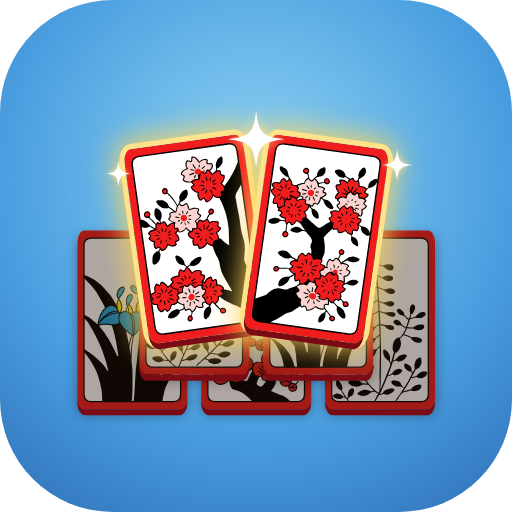
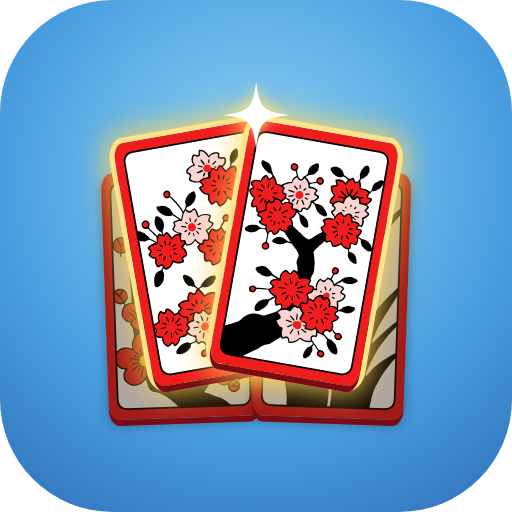
앱 아이콘을 단순한 2층 구성(시안 D)으로
- 빛나는 벚꽃 짝 두 장 뒤로 아래층 패 두 장이 살짝 보이는 2층, 하늘색 배경 (피처 그래픽과 같은 색)
- 작게 보여도 또렷하도록 요소를 줄임. 산호색 D2, 더 단순한 B2 등은 StoreAssets/icon-options

diff --git a/StoreAssets/src/icons.js b/StoreAssets/src/icons.js
@@ -34,6 +34,27 @@ const variants = {
     s += `<div style="position:absolute;left:256px;top:90px;width:0;height:0;z-index:8">${''}</div>`;
     s += spark(258, 92, 1.3) + spark(420, 140, 0.7) + spark(90, 150, 0.6) + spark(430, 420, 0.5);
     return s; } },
+  // B2: B를 더 단순하게 — 뒤 패 없이 벚꽃 짝 두 장과 큰 반짝이 하나 (작게 보여도 또렷하게)
+  B2: { bg: 'radial-gradient(circle at 50% 45%, #FFD9A8 0%, #FF9F6B 55%, #E8664A 100%)', body: () => {
+    let s = c('March_Kasu_1', 200, 268, 190, -14, 'glow', 3) + c('March_Kasu_2', 318, 276, 190, 12, 'glow', 4);
+    s += spark(262, 96, 1.4);
+    return s; } },
+  // D: 2층 — 짝 두 장 뒤로 아래층 패가 살짝만 보인다 (하늘색)
+  D: { bg: 'radial-gradient(circle at 50% 35%, #8FD3F4 0%, #4A9FE0 60%, #2F6FB8 100%)', body: () => {
+    // 아래층: 짝 두 장 바로 뒤에 같은 크기로 깔려 테두리와 아랫부분만 살짝 보인다
+    let s = c('February_Kasu_1', 168, 300, 176, -2, 'dim', 1) + c('May_Kasu_1', 344, 300, 176, 2, 'dim', 1);
+    // 위층: 빛나는 벚꽃 짝
+    s += c('March_Kasu_1', 200, 252, 176, -10, 'glow', 3) + c('March_Kasu_2', 312, 252, 176, 10, 'glow', 4);
+    s += spark(256, 92, 1.3);
+    return s; } },
+  // D2: D와 같고 산호색 배경
+  D2: { bg: 'radial-gradient(circle at 50% 45%, #FFD9A8 0%, #FF9F6B 55%, #E8664A 100%)', body: () => {
+    // 아래층: 짝 두 장 바로 뒤에 같은 크기로 깔려 테두리와 아랫부분만 살짝 보인다
+    let s = c('February_Kasu_1', 168, 300, 176, -2, 'dim', 1) + c('May_Kasu_1', 344, 300, 176, 2, 'dim', 1);
+    // 위층: 빛나는 벚꽃 짝
+    s += c('March_Kasu_1', 200, 252, 176, -10, 'glow', 3) + c('March_Kasu_2', 312, 252, 176, 10, 'glow', 4);
+    s += spark(256, 92, 1.3);
+    return s; } },
   // C: 3층으로 비스듬히 쌓인 더미(위로 갈수록 밝게), 맨 위 벚꽃 한 쌍. 크림색 배경
   C: { bg: 'radial-gradient(circle at 50% 30%, #FFF8E6 0%, #F6E2B8 60%, #E2BF84 100%)', body: () => {
     let s = '', w = 116;

diff --git a/StoreAssets/src/make.js b/StoreAssets/src/make.js
@@ -2,7 +2,7 @@
 // (하늘색 배경, 층층이 쌓인 패 위에서 벚꽃 짝 두 장이 빛난다. 광 패·초록 담요는 쓰지 않는다.)
 // 사용: node StoreAssets/src/make.js <화투 SVG 폴더>   (Tools/Cards/README.md 의 위키미디어 SVG)
 // 결과: StoreAssets/feature-ko.png, StoreAssets/feature-en.png
-// 앱 아이콘은 icons.js (시안 A를 icon-512.png 와 Assets/Icon/AppIcon.png 로 복사해 쓴다)
+// 앱 아이콘은 icons.js (시안 D를 icon-512.png 와 Assets/Icon/AppIcon.png 로 복사해 쓴다)
 const fs = require('fs'), path = require('path'), { execFileSync } = require('child_process');
 const SVG = process.argv[2];
 if (!SVG) { console.error('usage: node make.js <svg dir>'); process.exit(1); }

diff --git a/Assets/Editor/ProjectSetup.cs b/Assets/Editor/ProjectSetup.cs
@@ -70,7 +70,7 @@ public static class ProjectSetup
 
     /// <summary>
     /// 안드로이드 런처 아이콘: 적응형(배경 + 전경, 기기마다 원·둥근 사각형 등으로 잘린다), 원형, 레거시(둥근 사각형).
-    /// 그림은 StoreAssets/src/icons.js 로 만든다 (시안 A).
+    /// 그림은 StoreAssets/src/icons.js 로 만든다 (시안 D).
     /// </summary>
     static void ApplyAndroidIcons(Texture2D legacy)
     {

diff --git a/StoreAssets/StoreListing.md b/StoreAssets/StoreListing.md
@@ -1,6 +1,6 @@
 # 플레이 스토어 등록 정보
 
-그래픽: `StoreAssets/icon-512.png`(스토어에 올리는 앱 아이콘, 시안 A. 둥근 모양 미리 보기 `icon-512-rounded.png`, 다른 시안은 `icon-options/`, `node StoreAssets/src/icons.js <SVG 폴더> <출력>`), `feature-ko.png`·`feature-en.png`(피처 그래픽 1024x500),
+그래픽: `StoreAssets/icon-512.png`(스토어에 올리는 앱 아이콘, 시안 D: 2층으로 쌓인 벚꽃 짝. 둥근 모양 미리 보기 `icon-512-rounded.png`, 다른 시안은 `icon-options/`, `node StoreAssets/src/icons.js <SVG 폴더> <출력>`), `feature-ko.png`·`feature-en.png`(피처 그래픽 1024x500),
 `screenshots/ko`·`screenshots/en`(휴대전화 스크린샷 1080x1920 6장씩). 다시 만들기: `node StoreAssets/src/make.js <화투 SVG 폴더>`,
 `node StoreAssets/src/screens.js` (먼저 Windows 빌드로 `-autoshot Builds/shots` 를 810x1440 으로 찍는다).
 
